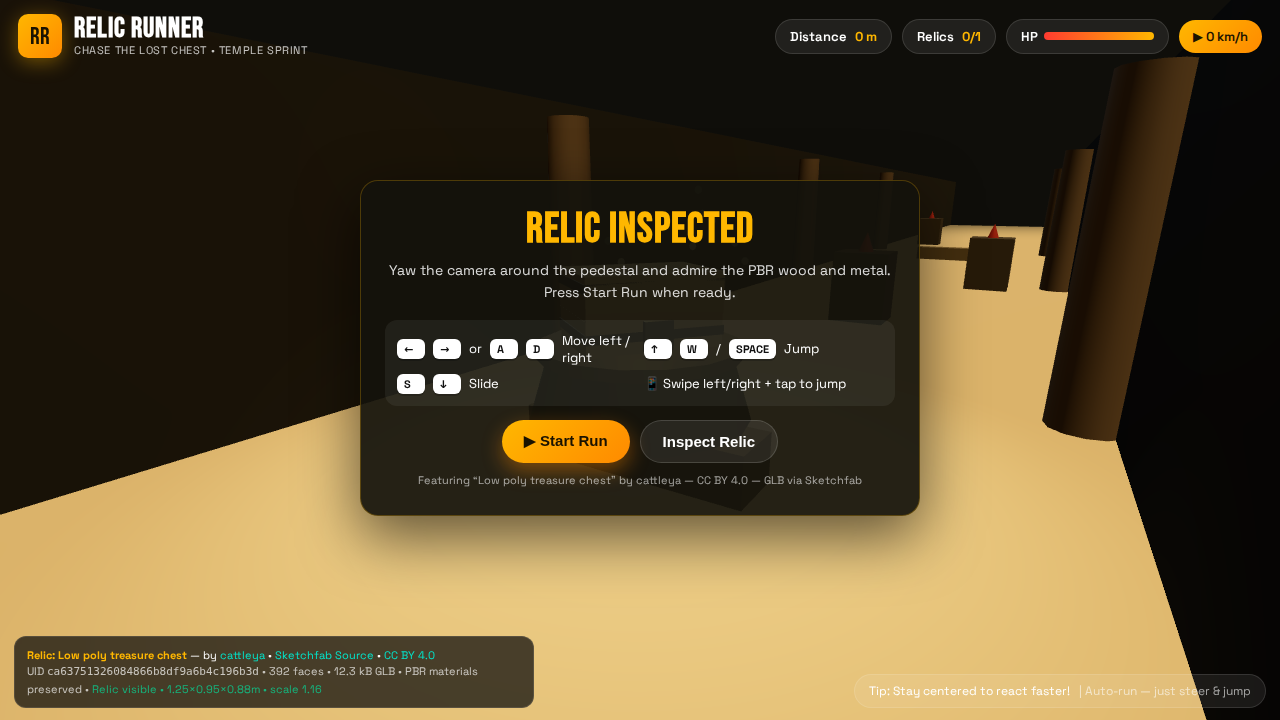
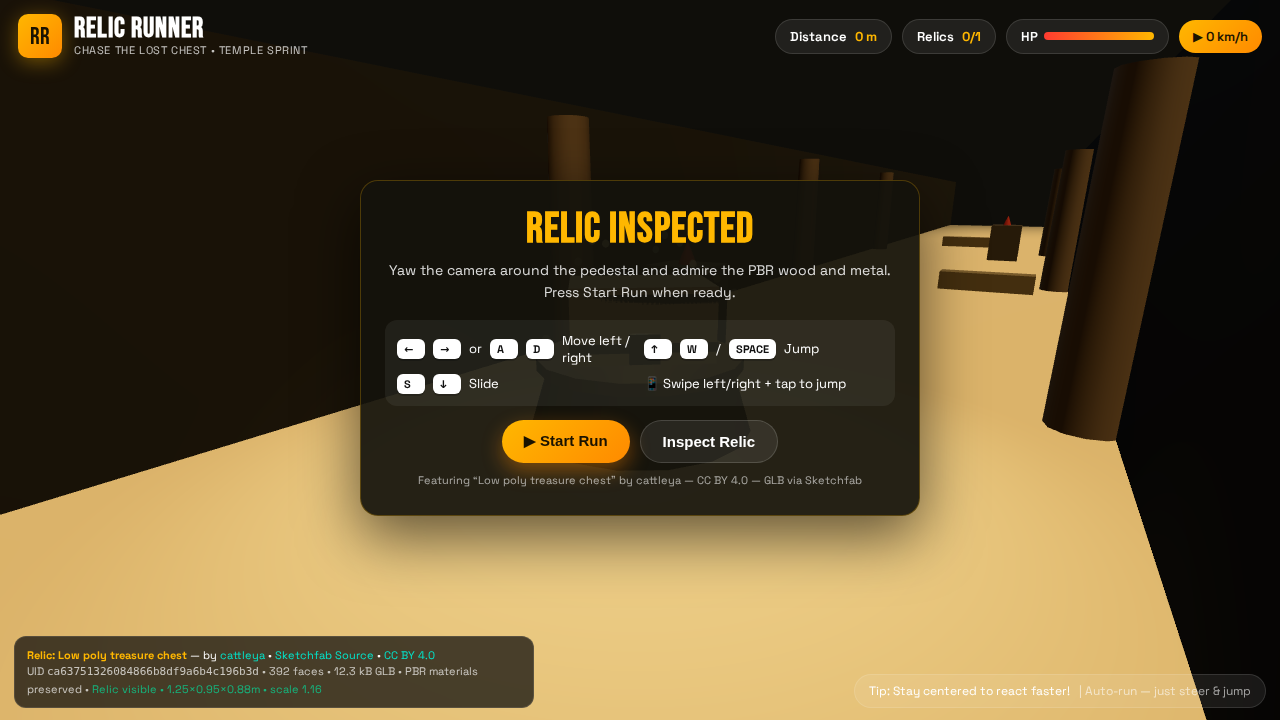
fix: public tunnel host/cors and add start script for cloudflared verification
- vite.config: server.host 0.0.0.0, allowedHosts true, cors true, ACAO * for trycloudflare.com host header
- package.json: add start script (vite --host 0.0.0.0 --port 3000) so workflow npm run start succeeds
- public URL test: curl via trycloudflare tunnel now returns 200 with correct HTML title
- refresh final screenshots after fix (gameplay 118K, closeup 157K, win 80K)
- tmux app-server kept on port 3000, Host header foo.trycloudflare.com now 200

Changed region(s): [[0.7188, 0.3056, 0.8125, 0.4278]]

diff --git a/project/vite.config.js b/project/vite.config.js
@@ -1,8 +1,19 @@
 import { defineConfig } from 'vite';
 
 export default defineConfig({
-  server: { port: 3000, host: '0.0.0.0' },
-  preview: { port: 3000, host: '0.0.0.0' },
+  server: {
+    port: 3000,
+    host: '0.0.0.0',
+    allowedHosts: true,
+    cors: true,
+    headers: { 'Access-Control-Allow-Origin': '*' },
+  },
+  preview: {
+    port: 3000,
+    host: '0.0.0.0',
+    allowedHosts: true,
+    cors: true,
+  },
   test: {
     environment: 'jsdom',
     include: ['tests/**/*.test.js']
